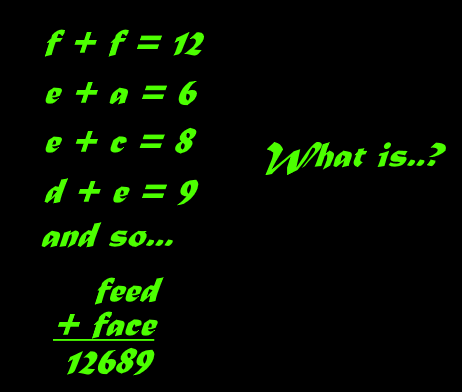
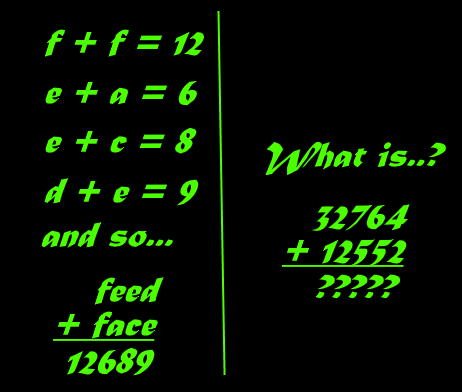
more riddles

Changed region(s): [[0.6061, 0.5204, 0.9091, 0.7653], [0.4545, 0.0306, 0.4848, 0.8571], [0.4848, 0.8878, 0.5152, 0.949]]

diff --git a/riddle/templates/riddle/riddle_one.html b/riddle/templates/riddle/riddle_one.html
@@ -16,15 +16,15 @@
 
 		<div class="boxed">
 			<h1> Let the challenge begin </h1>
-			You're eyes flicker open, the dark dank room
-			just coming into focus. Light came in from a small
+			Your eyes flicker open, the dark dank room
+			coming into focus. Light comes in from a small
 			crack in the ceiling illuminating a stony dungeon.
-			Ivy encrusted the walls and a damp smell eminated from
+			Ivy encrusted the walls and a damp smell eminates from
 			every stone.<br>
-			The only way out appeared to be a large steal door. You
+			The only way out appears to be a large steel door. You
 			run over, trying the lock, but it's stuck.
 			However behind a string of ivy you find a keypad reading:
-			Please Enter Password. hint: look at the walls.
+			<br> Please Enter Password. Hint: look at the walls. <br>
 			You look at the walls, ripping away all the ivy and
 			there reads a message on a golden plaque on the wall:
 			<h1> Instructions </h1>
@@ -32,7 +32,7 @@
 				<li> Each room will have a riddle </li>
 				<li> When you solve the riddle type your answer into the
 				solution area with no spaces and all letters lowercase </li>
-				<li> The 'solution area' is the url of each webpage </li>
+				<li> The 'solution area' is the end of the url. </li>
 				<li> Good luck young quester... the answer is key! </li>
 			</ul>
 			

diff --git a/riddle/templates/riddle/riddle_six.html b/riddle/templates/riddle/riddle_six.html
@@ -12,15 +12,14 @@
 		<center>
 		<a href="https://emchammer.pythonanywhere.com/">
 		<img src="{% static "images/Castl.png" %}" alt="Logo">
-		</a>
+		</a> 
 
 		<div class="boxed">
-			<h1> Ah.. two fat ladies...</h1>
-			The next room was bigger, with a torch in the corner.
-			It lit up the next riddle, scrawled in white paint across the wall </h2>
-			<img src={% static "images/riddletwo.png" %} alt="buzzpuzz">
-			<h2> What am I? </h2>
-			
+			<h1> Trickier and trickier... </h1>
+			The next room was more well lit, cracks in the ceiling
+			let light flood in. You're eyes, used to the dark, take
+			a while to adjust and read the next puzzle. <br> <br>
+			<img src={% static "images/riddlefive.png" %} alt="magicwords" style="width:50%;height:auto"><br> <br>
 		</div>
 	</body>
 </html>

diff --git a/mysite/settings.py b/mysite/settings.py
@@ -23,7 +23,7 @@ BASE_DIR = os.path.dirname(os.path.dirname(os.path.abspath(__file__)))
 SECRET_KEY = 'by&d*tp)zmxsdym963%1540$a$+3r#xleg42$-m&g8lfefykz4'
 
 # SECURITY WARNING: don't run with debug turned on in production!
-DEBUG = False
+DEBUG = True
 
 ALLOWED_HOSTS = ['emchammer.pythonanywhere.com']
 

diff --git a/riddle/urls.py b/riddle/urls.py
@@ -7,4 +7,5 @@ urlpatterns = [
     url(r'^88$', views.riddle_three, name = 'riddle_three'),
     url(r'^infinity$', views.riddle_four, name='riddle_four'),
     url(r'111312211f$', views.riddle_five, name='riddle_five'),
+    url(r'decaf', views.riddle_six, name='riddle_six'),
 ]

diff --git a/riddle/views.py b/riddle/views.py
@@ -15,3 +15,6 @@ def riddle_four(request):
 def riddle_five(request):
     return render(request, 'riddle/riddle_five.html', {})
 
+def riddle_six(request):
+    return render(request, 'riddle/riddle_six.html', {})
+
